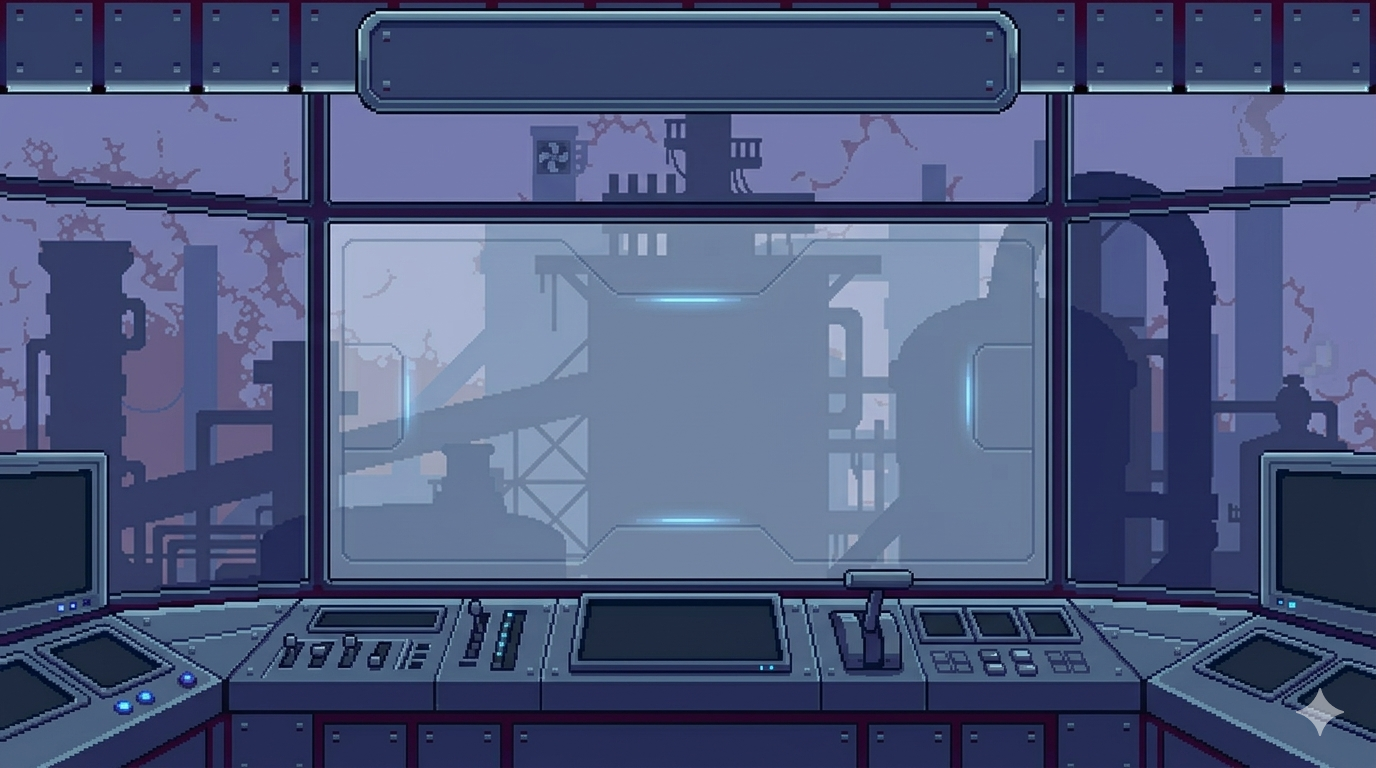
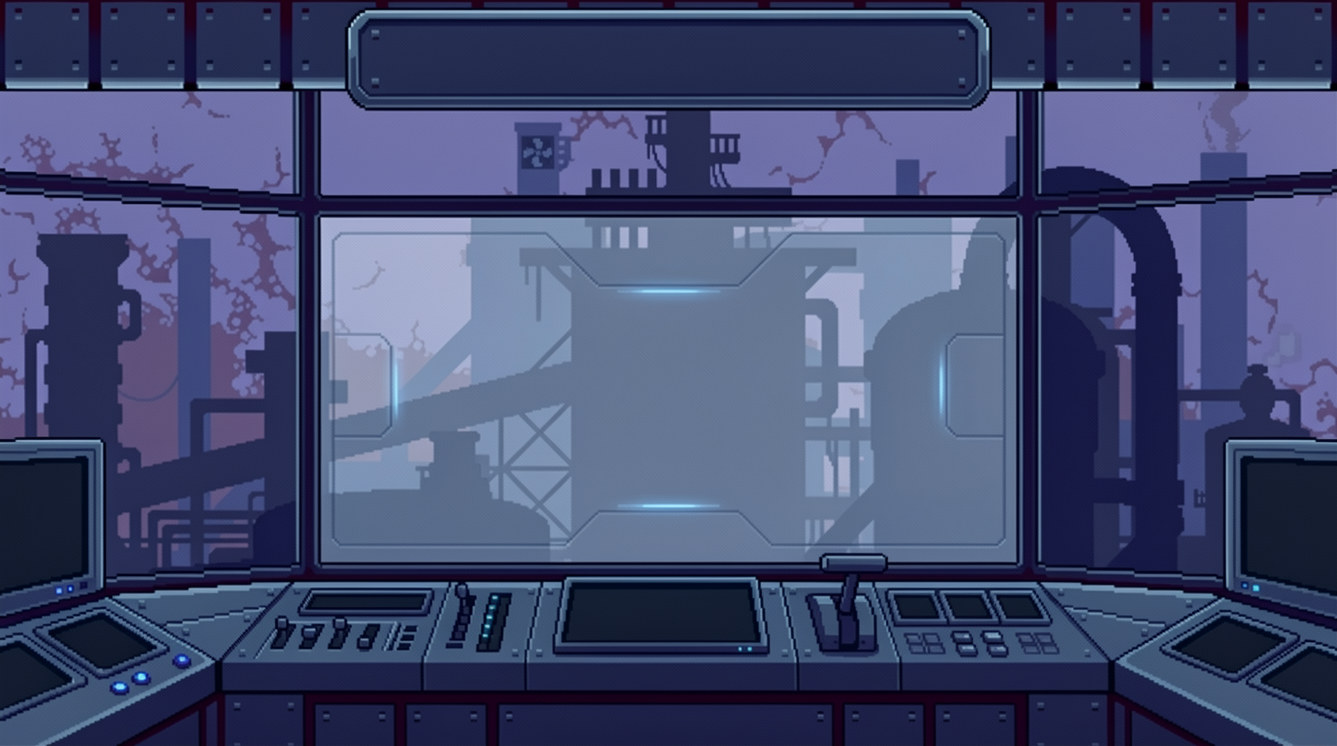
1

diff --git a/core/src/main/java/game/ru/CasinoScreen.java b/core/src/main/java/game/ru/CasinoScreen.java
@@ -49,7 +49,9 @@ public class CasinoScreen extends ScreenAdapter {
         this.game = game;
         this.background = new Texture(GameResources.MENU_BACKGROUND_PATH);
         this.menuButton = new Texture(GameResources.MAIN_MENU_BUTTON_PATH);
+        this.menuButton.setFilter(Texture.TextureFilter.Nearest, Texture.TextureFilter.Nearest);
         this.spinButton = new Texture(GameResources.SPIN_BUTTON_PATH);
+        this.spinButton.setFilter(Texture.TextureFilter.Nearest, Texture.TextureFilter.Nearest);
         this.settingsButton = new Texture(GameResources.SETTINGS_BUTTON_PATH);
         this.coinIcon = new Texture(GameResources.COIN_ICON_PATH);
         this.rocketSymbol = new Texture(GameResources.ROCKET_IMG_PATH);
@@ -133,11 +135,6 @@ public class CasinoScreen extends ScreenAdapter {
             float x = startX + i * (slotSize + 20);
             float y = 750;
 
-            // Рамка слота
-            game.batch.setColor(Color.DARK_GRAY);
-            game.batch.draw(coinIcon, x - 5, y - 5, slotSize + 10, slotSize + 10);
-            game.batch.setColor(Color.WHITE);
-
             if (isSpinning) {
                 TextureRegion frame = coinAnimation.getKeyFrame(stateTime + i * 0.2f);
                 game.batch.draw(frame, x, y, slotSize, slotSize);
@@ -204,13 +201,10 @@ public class CasinoScreen extends ScreenAdapter {
         int win = 0;
         if (currentSymbols[0] == currentSymbols[1] && currentSymbols[1] == currentSymbols[2]) {
             int type = currentSymbols[0];
-            if (type == 0) win = 500;      // 3 монеты
-            else if (type == 1) win = 300; // 3 ракеты
-            else win = 200;                // 3 значка настроек
+            if (type == 0) win = 300;      // 3 монеты
+            else if (type == 1) win = 150; // 3 ракеты
+            else win = 100;                // 3 значка настроек
             resultMessage = "JACKPOT! +" + win;
-        } else if (currentSymbols[0] == currentSymbols[1] || currentSymbols[1] == currentSymbols[2] || currentSymbols[0] == currentSymbols[2]) {
-            win = 40; // 2 одинаковых
-            resultMessage = "WIN! +" + win;
         } else {
             resultMessage = "Try again!";
         }

diff --git a/core/src/main/java/game/ru/RocketObject.java b/core/src/main/java/game/ru/RocketObject.java
@@ -18,7 +18,7 @@ public class RocketObject extends GameObject {
     private float speed;
 
     public RocketObject(int yPixels, Animation<TextureRegion> animation, Texture warningIcon, float speed, World world) {
-        super(animation.getKeyFrame(0).getTexture(), GameSettings.SCREEN_WIDTH + 100, yPixels, 100, 50, GameSettings.LASER_BIT, world, true, 0.8f, 0.5f, GameSettings.JETPACK_BIT);
+        super(animation.getKeyFrame(0).getTexture(), GameSettings.SCREEN_WIDTH + 100, yPixels, 100, 50, GameSettings.ROCKET_BIT, world, true, 0.8f, 0.5f, GameSettings.JETPACK_BIT);
         this.animation = animation;
         this.warningIcon = warningIcon;
         this.warningTimer = 2.0f;
@@ -31,17 +31,22 @@ public class RocketObject extends GameObject {
         stateTime += delta;
         if (!isLaunched) {
             warningTimer -= delta;
-            if (warningTimer <= 0) {
-                isLaunched = true;
-            }
+
+            // Пока не запущена, следуем за игроком по Y
             float targetY = playerPosMeters.y;
             float currentY = body.getPosition().y;
-            float newY = currentY + (targetY - currentY) * delta * 3f;
-            body.setTransform(body.getPosition().x, newY, 0);
-        } else {
-            float x = body.getPosition().x - speed * delta * GameSettings.SCALE;
-            body.setTransform(x, body.getPosition().y, 0);
+            float velY = (targetY - currentY) * 5f;
 
+            if (warningTimer <= 0) {
+                isLaunched = true;
+                // При запуске задаем горизонтальную скорость и останавливаем вертикальное слежение
+                body.setLinearVelocity(-speed * GameSettings.SCALE, 0);
+            } else {
+                // Если еще не запущена, движемся только по вертикали
+                body.setLinearVelocity(0, velY);
+            }
+        } else {
+            // После запуска летит с установленной скоростью. Проверяем выход за экран.
             if (getX() < -width) {
                 active = false;
             }

diff --git a/core/src/main/java/game/ru/JetPackObject.java b/core/src/main/java/game/ru/JetPackObject.java
@@ -19,7 +19,7 @@ public class JetPackObject extends GameObject {
     public boolean isDead = false;
 
     public JetPackObject(int x, int y, int width, int height, Animation<TextureRegion> animation, World world, GameScreen gameScreen) {
-        super(animation.getKeyFrame(0).getTexture(), x, y, width, height, GameSettings.JETPACK_BIT, world, false, 0.6f, 1.0f, (short)(GameSettings.BOUNDS_BIT | GameSettings.LASER_BIT | GameSettings.COIN_BIT));
+        super(animation.getKeyFrame(0).getTexture(), x, y, width, height, GameSettings.JETPACK_BIT, world, false, 0.6f, 1.0f, (short)(GameSettings.BOUNDS_BIT | GameSettings.LASER_BIT | GameSettings.COIN_BIT | GameSettings.ROCKET_BIT));
         this.animation = animation;
         this.gameScreen = gameScreen;
         this.stateTime = 0;

diff --git a/core/src/main/java/game/ru/GameObject.java b/core/src/main/java/game/ru/GameObject.java
@@ -12,7 +12,7 @@ import com.badlogic.gdx.physics.box2d.World;
 public class GameObject {
     Texture texture;
     public Body body;
-    int width, height;
+    public int width, height;
     public short cBits;
 
     GameObject(String texturePath, int x, int y, int width, int height, short cBits, World world) {

diff --git a/core/src/main/java/game/ru/GameSettings.java b/core/src/main/java/game/ru/GameSettings.java
@@ -32,5 +32,7 @@ public class GameSettings {
     public static final int COIN_WIDTH = 60;
     public static final short COIN_BIT = 16;
 
+    public static final short ROCKET_BIT = 32;
+
     public static final short BOUNDS_BIT = 1;
 }
